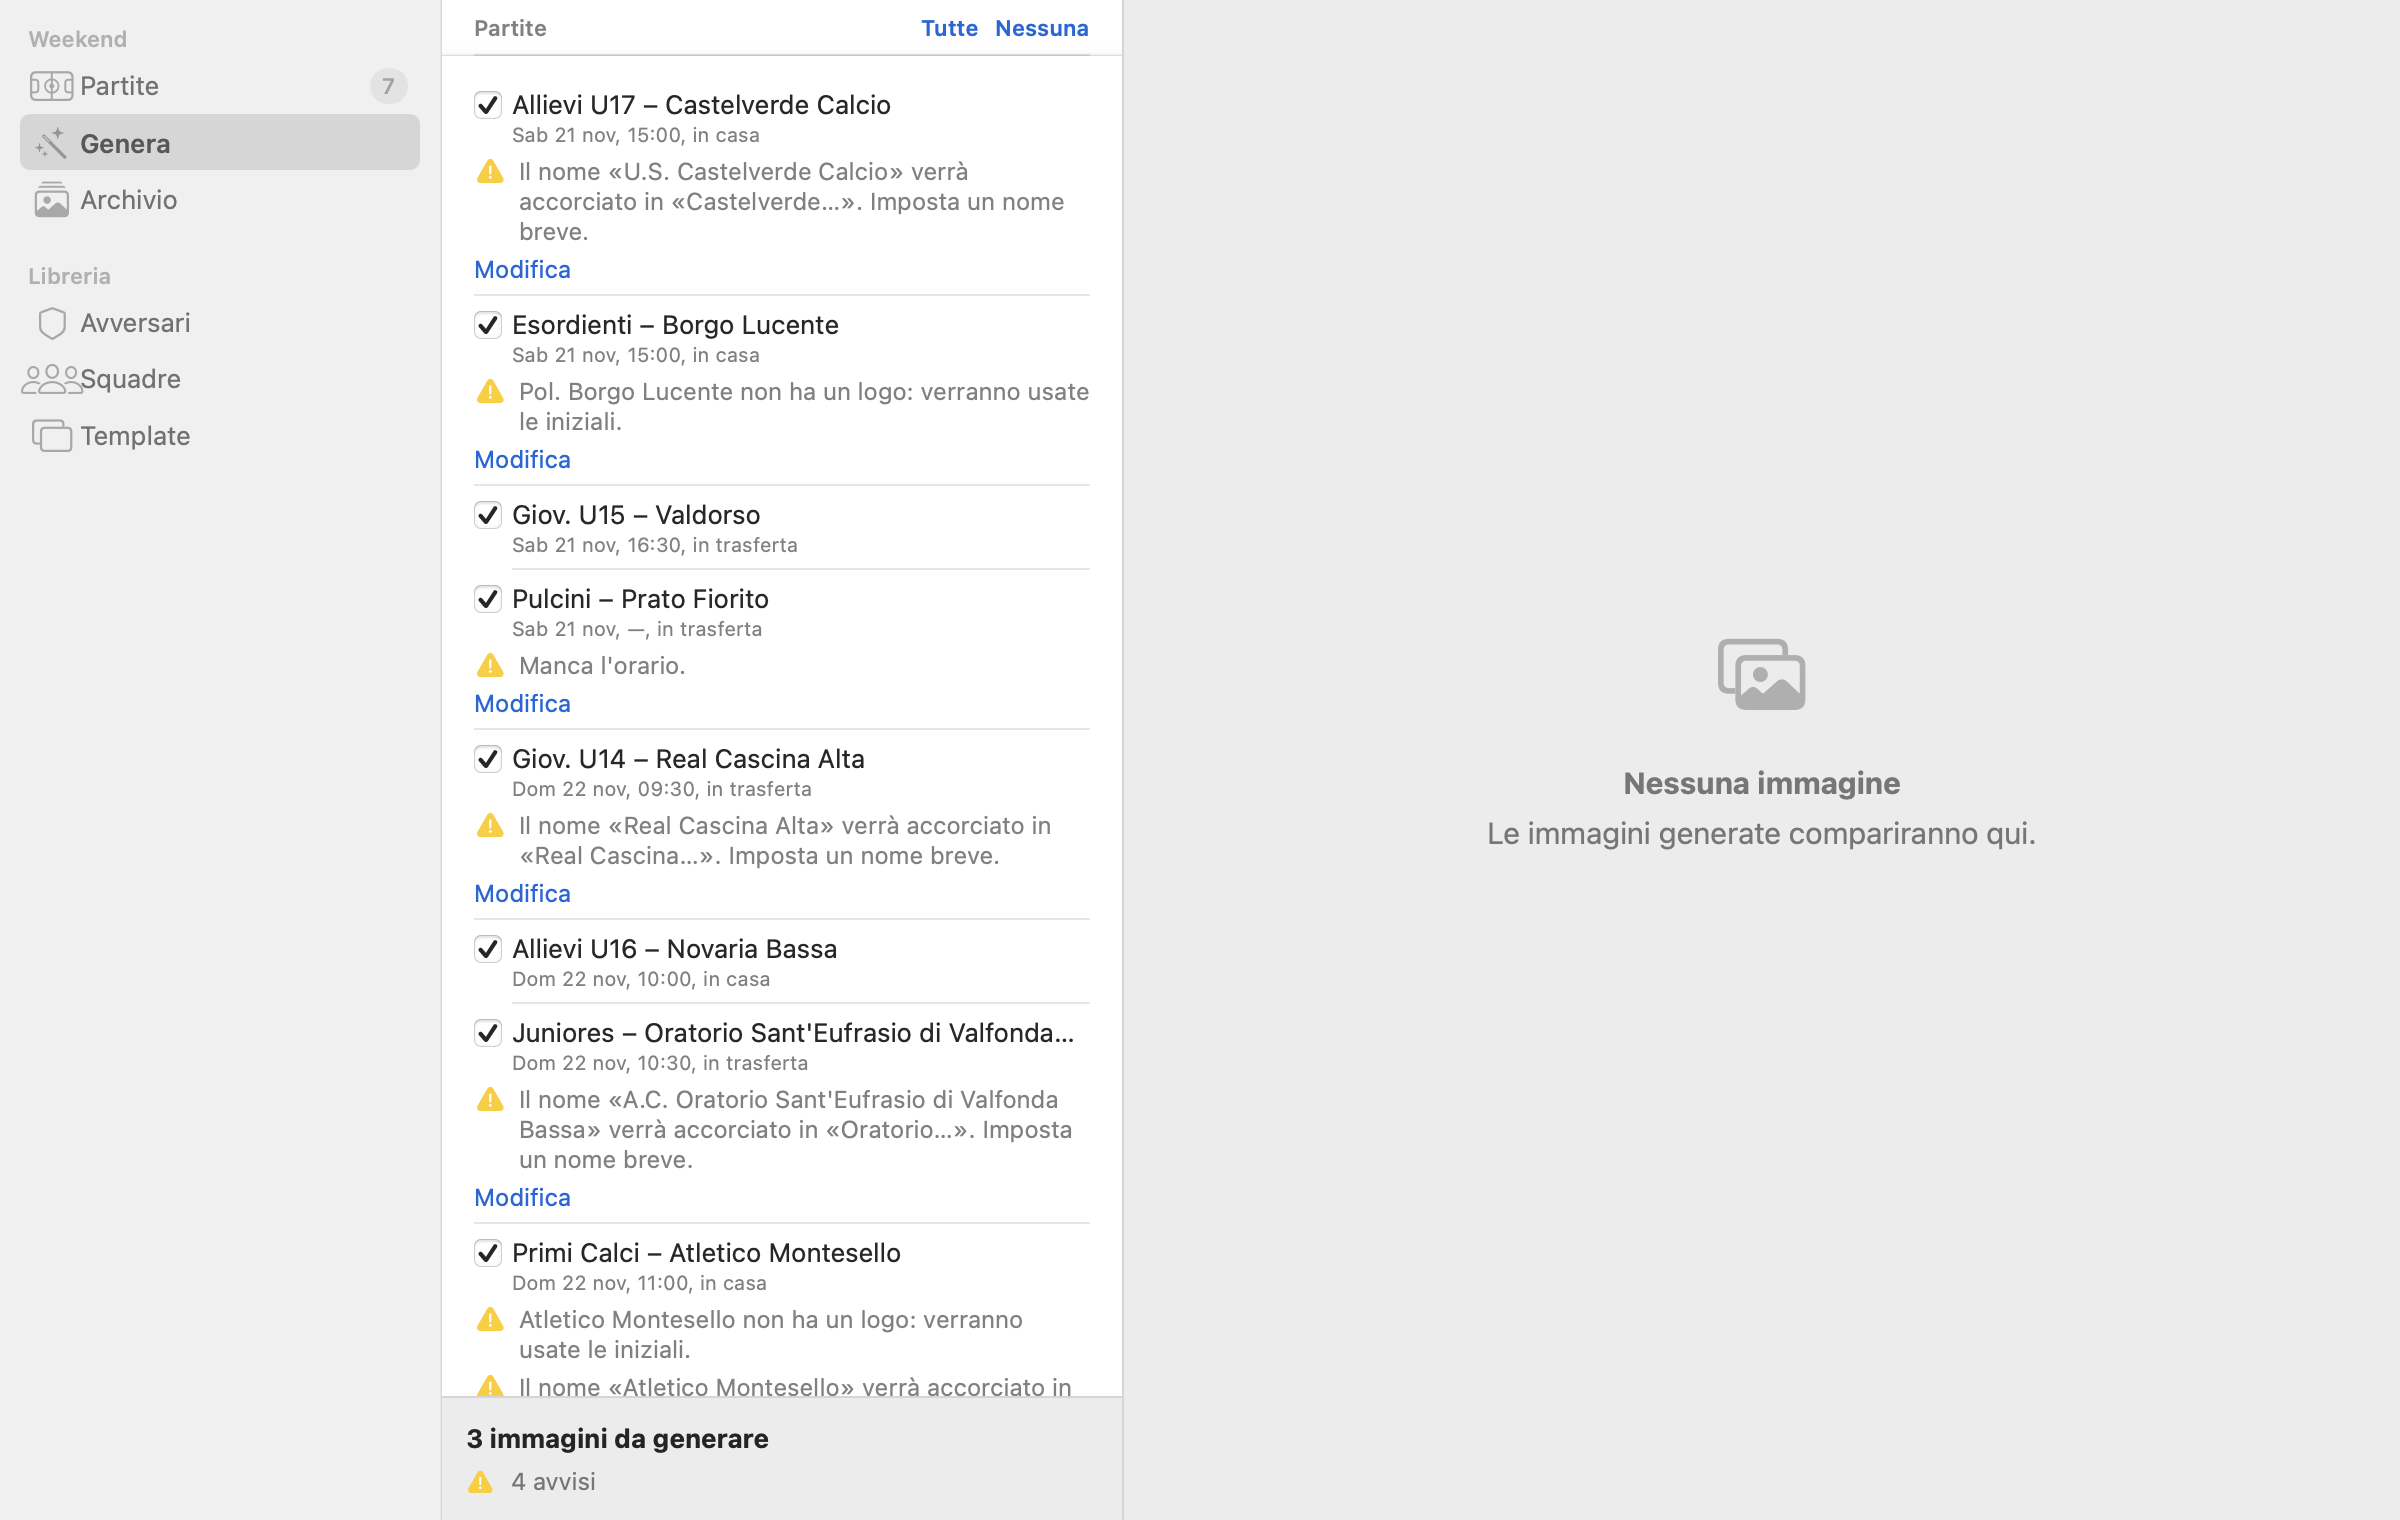
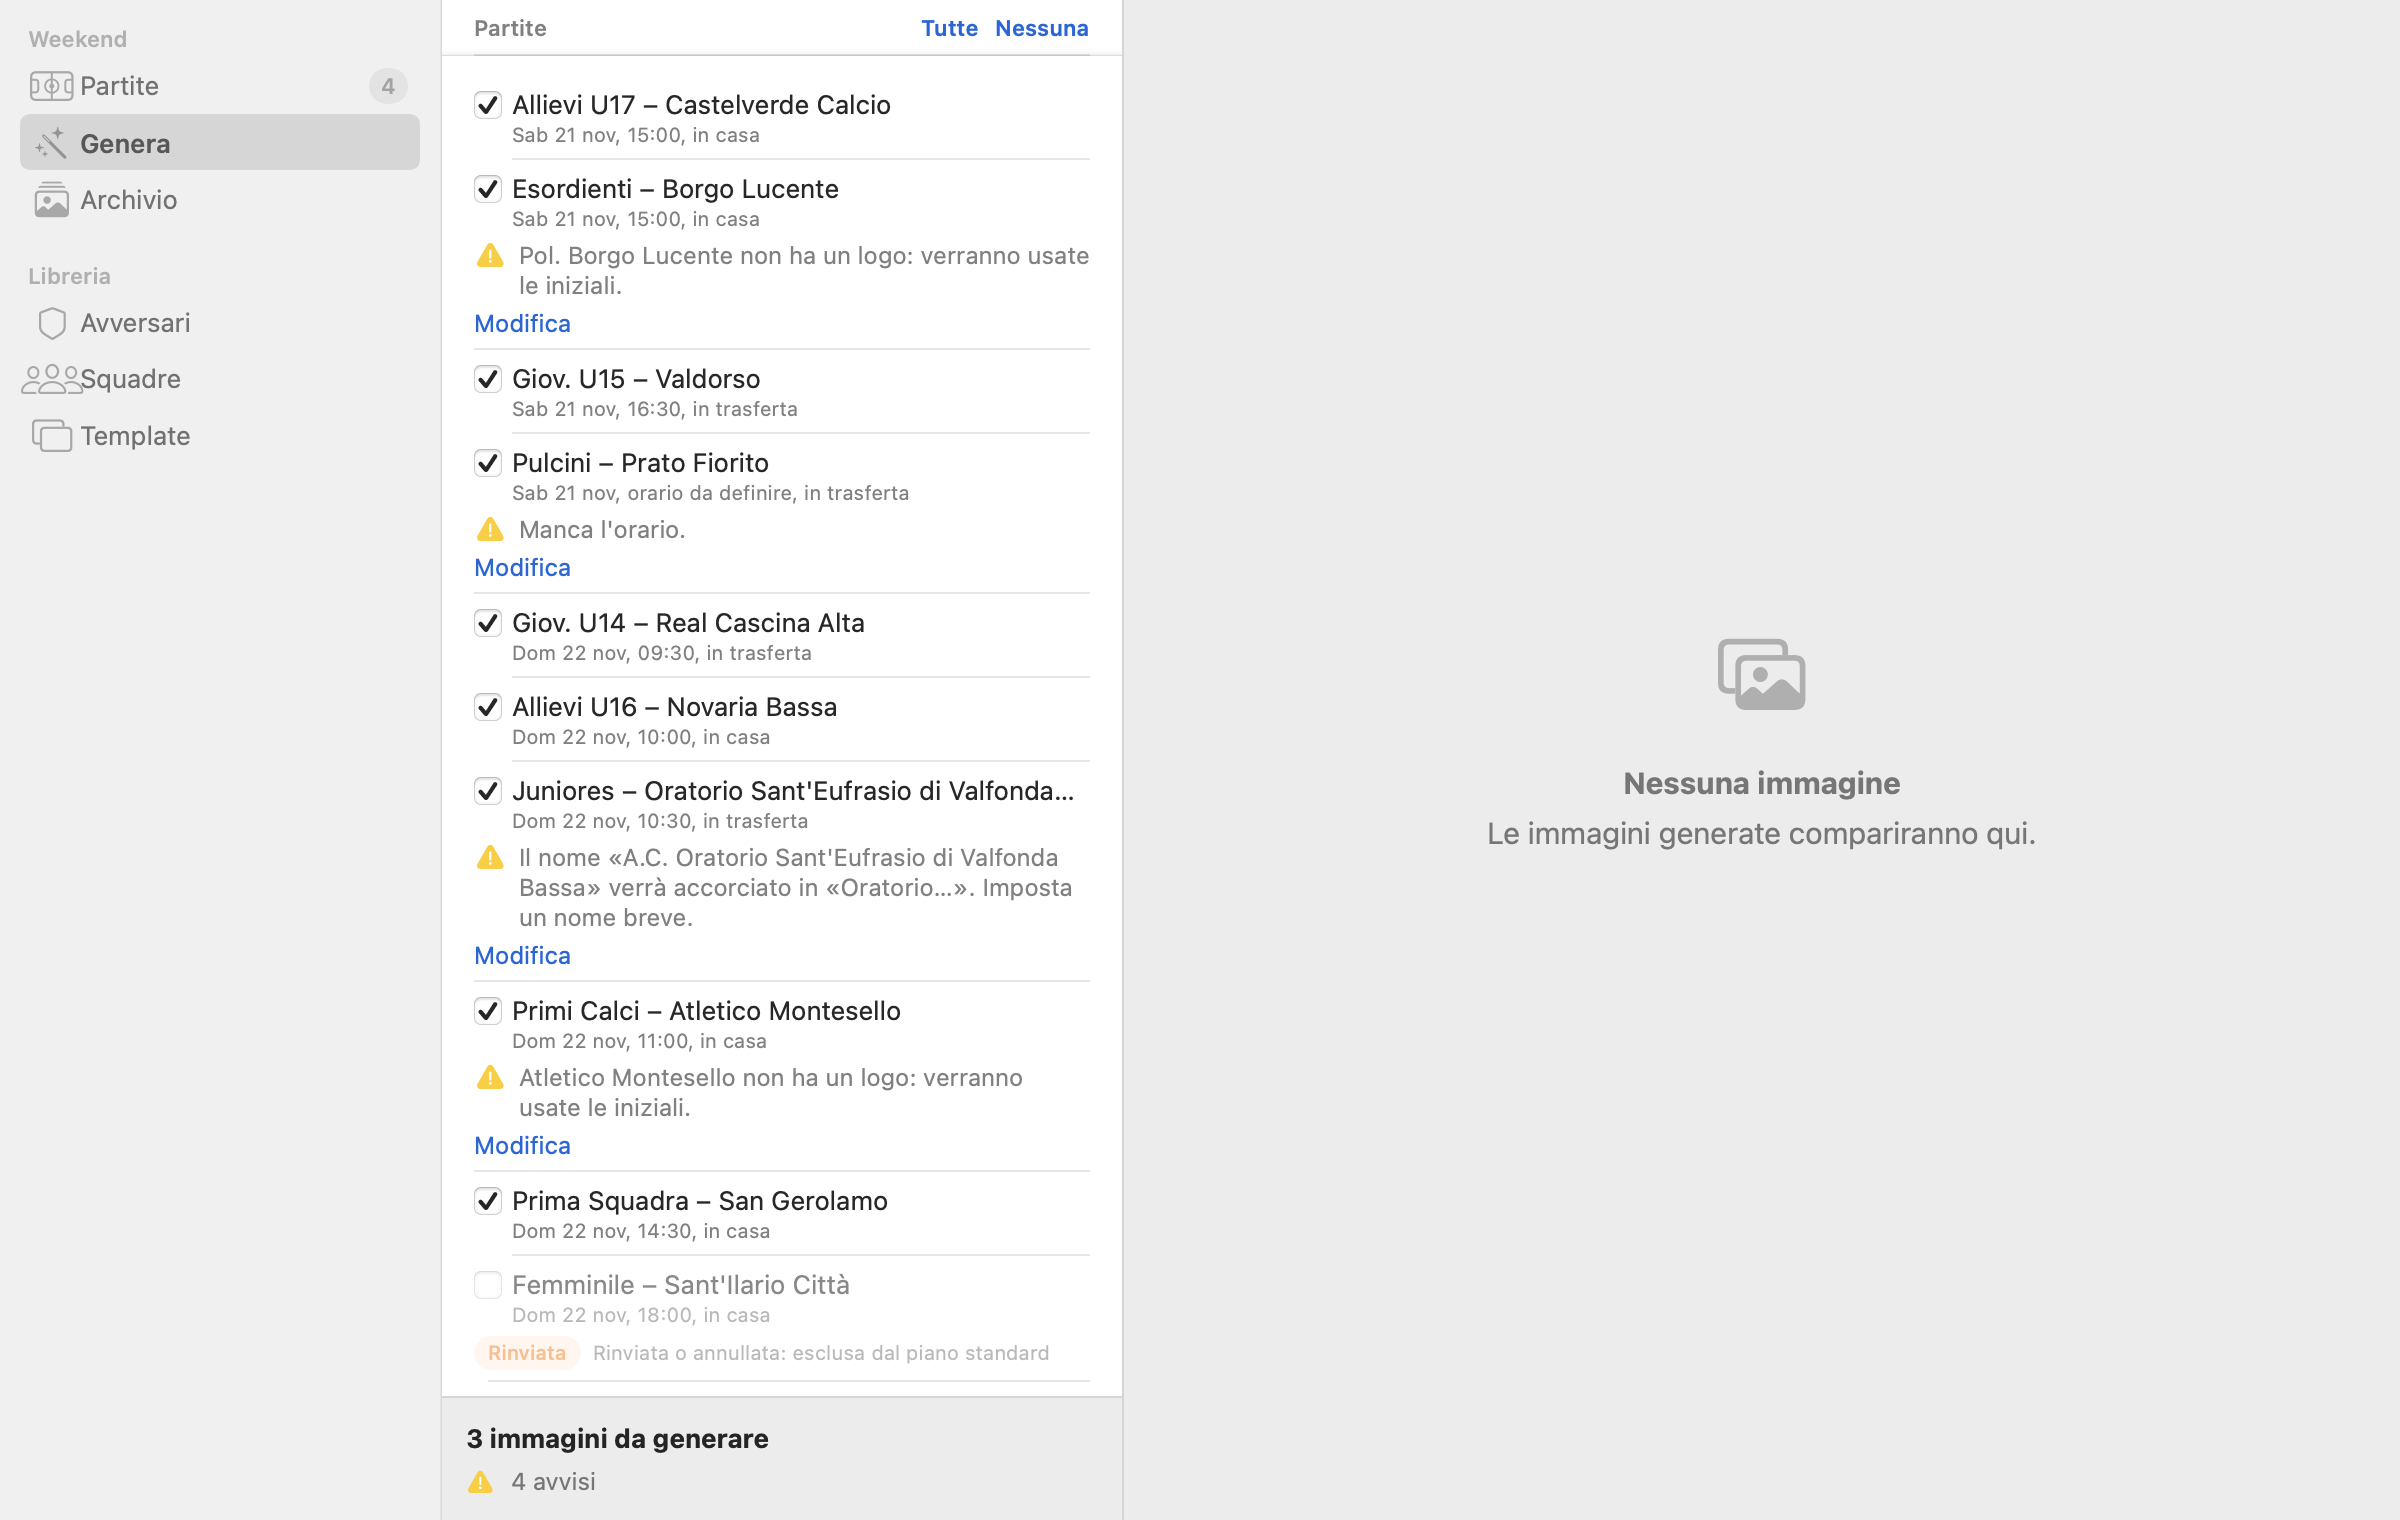
T3.3 fix: docs follow-ups from final review
- Regenerate docs/images/partite.png and genera.png from ss-tool screenshots (light).
- USER-GUIDE: share is not on a toolbar selection button; "Condividi tutte" is in the toolbar; Quick Look opens a panel.
- Stop tracking the root .DS_Store (git rm --cached).
- Architecture §8: the app also opens the user guide and template guide on github.com.

Changed region(s): [[0.1875, 0.0928, 0.4375, 0.9276]]

diff --git a/docs/USER-GUIDE.md b/docs/USER-GUIDE.md
@@ -76,7 +76,7 @@ e puoi premere **Rigenera** su quella immagine.
 
 ### 5. Controlla il risultato
 
-Clicca un'immagine e premi **Spazio** (oppure **Invio**, o ⌘Y) per aprire l'**Anteprima rapida** a schermo intero.
+Clicca un'immagine e premi **Spazio** (oppure **Invio**, o ⌘Y) per aprire l'**Anteprima rapida**, un pannello con l'immagine ingrandita.
 Con ⇧ o ⌘ puoi selezionarne più d'una. Con le frecce ti sposti tra le immagini.
 
 Controlla in particolare:
@@ -89,13 +89,13 @@ Se qualcosa non va, torna in **Partite**, correggi il dato e genera di nuovo sol
 
 ### 6. Manda le immagini al telefono
 
-Seleziona le immagini, poi scegli **Condividi…** (dal pulsante della barra, dal menu **Immagini** o dal menu
+Seleziona le immagini, poi scegli **Condividi…** (dal menu **Immagini** o dal menu
 che compare col tasto destro). Si apre il foglio di condivisione di macOS.
 
 **Per il telefono usa AirDrop**: scegli il nome del telefono nell'elenco AirDrop. Sul telefono accetta il trasferimento:
 le immagini finiscono in **Foto**, da lì si pubblicano su Instagram o Facebook.
 
-Puoi anche condividere tutte le immagini di una generazione con **Condividi tutte**, nella sezione Risultato.
+Puoi anche condividere tutte le immagini di una generazione con **Condividi tutte**, il pulsante nella barra degli strumenti di Genera.
 
 Le immagini restano sul disco anche dopo la condivisione. Nel menu **Immagini** c'è **Mostra nel Finder** (⇧⌘R)
 per aprirle nella cartella in cui sono state salvate. Con **Immagini › Copia immagine** puoi copiarle negli appunti.

diff --git a/docs/plan/01-architecture.md b/docs/plan/01-architecture.md
@@ -341,7 +341,7 @@ Errors: one `AppError` enum (`validation(field, message)`, `conflict(message)`, 
 
 ## 8. Security notes
 
-- No network listener of any kind. The app makes no network request in v0.1.0 except opening the Releases page in the browser when the user asks.
+- No network listener of any kind. The app makes no network request in v0.1.0. It only opens pages in the browser when the user asks: the Releases page, the user guide and the template guide on github.com.
 - Template web views: custom scheme limited to two folders, all remote requests blocked, non-persistent store, no script message handlers (template JavaScript cannot call into the app).
 - Template imports: reject absolute paths, `..` and symlinks; cap size and file count.
 - Logos: SVG files are rasterised to PNG on import, so no script-bearing SVG is ever stored.
